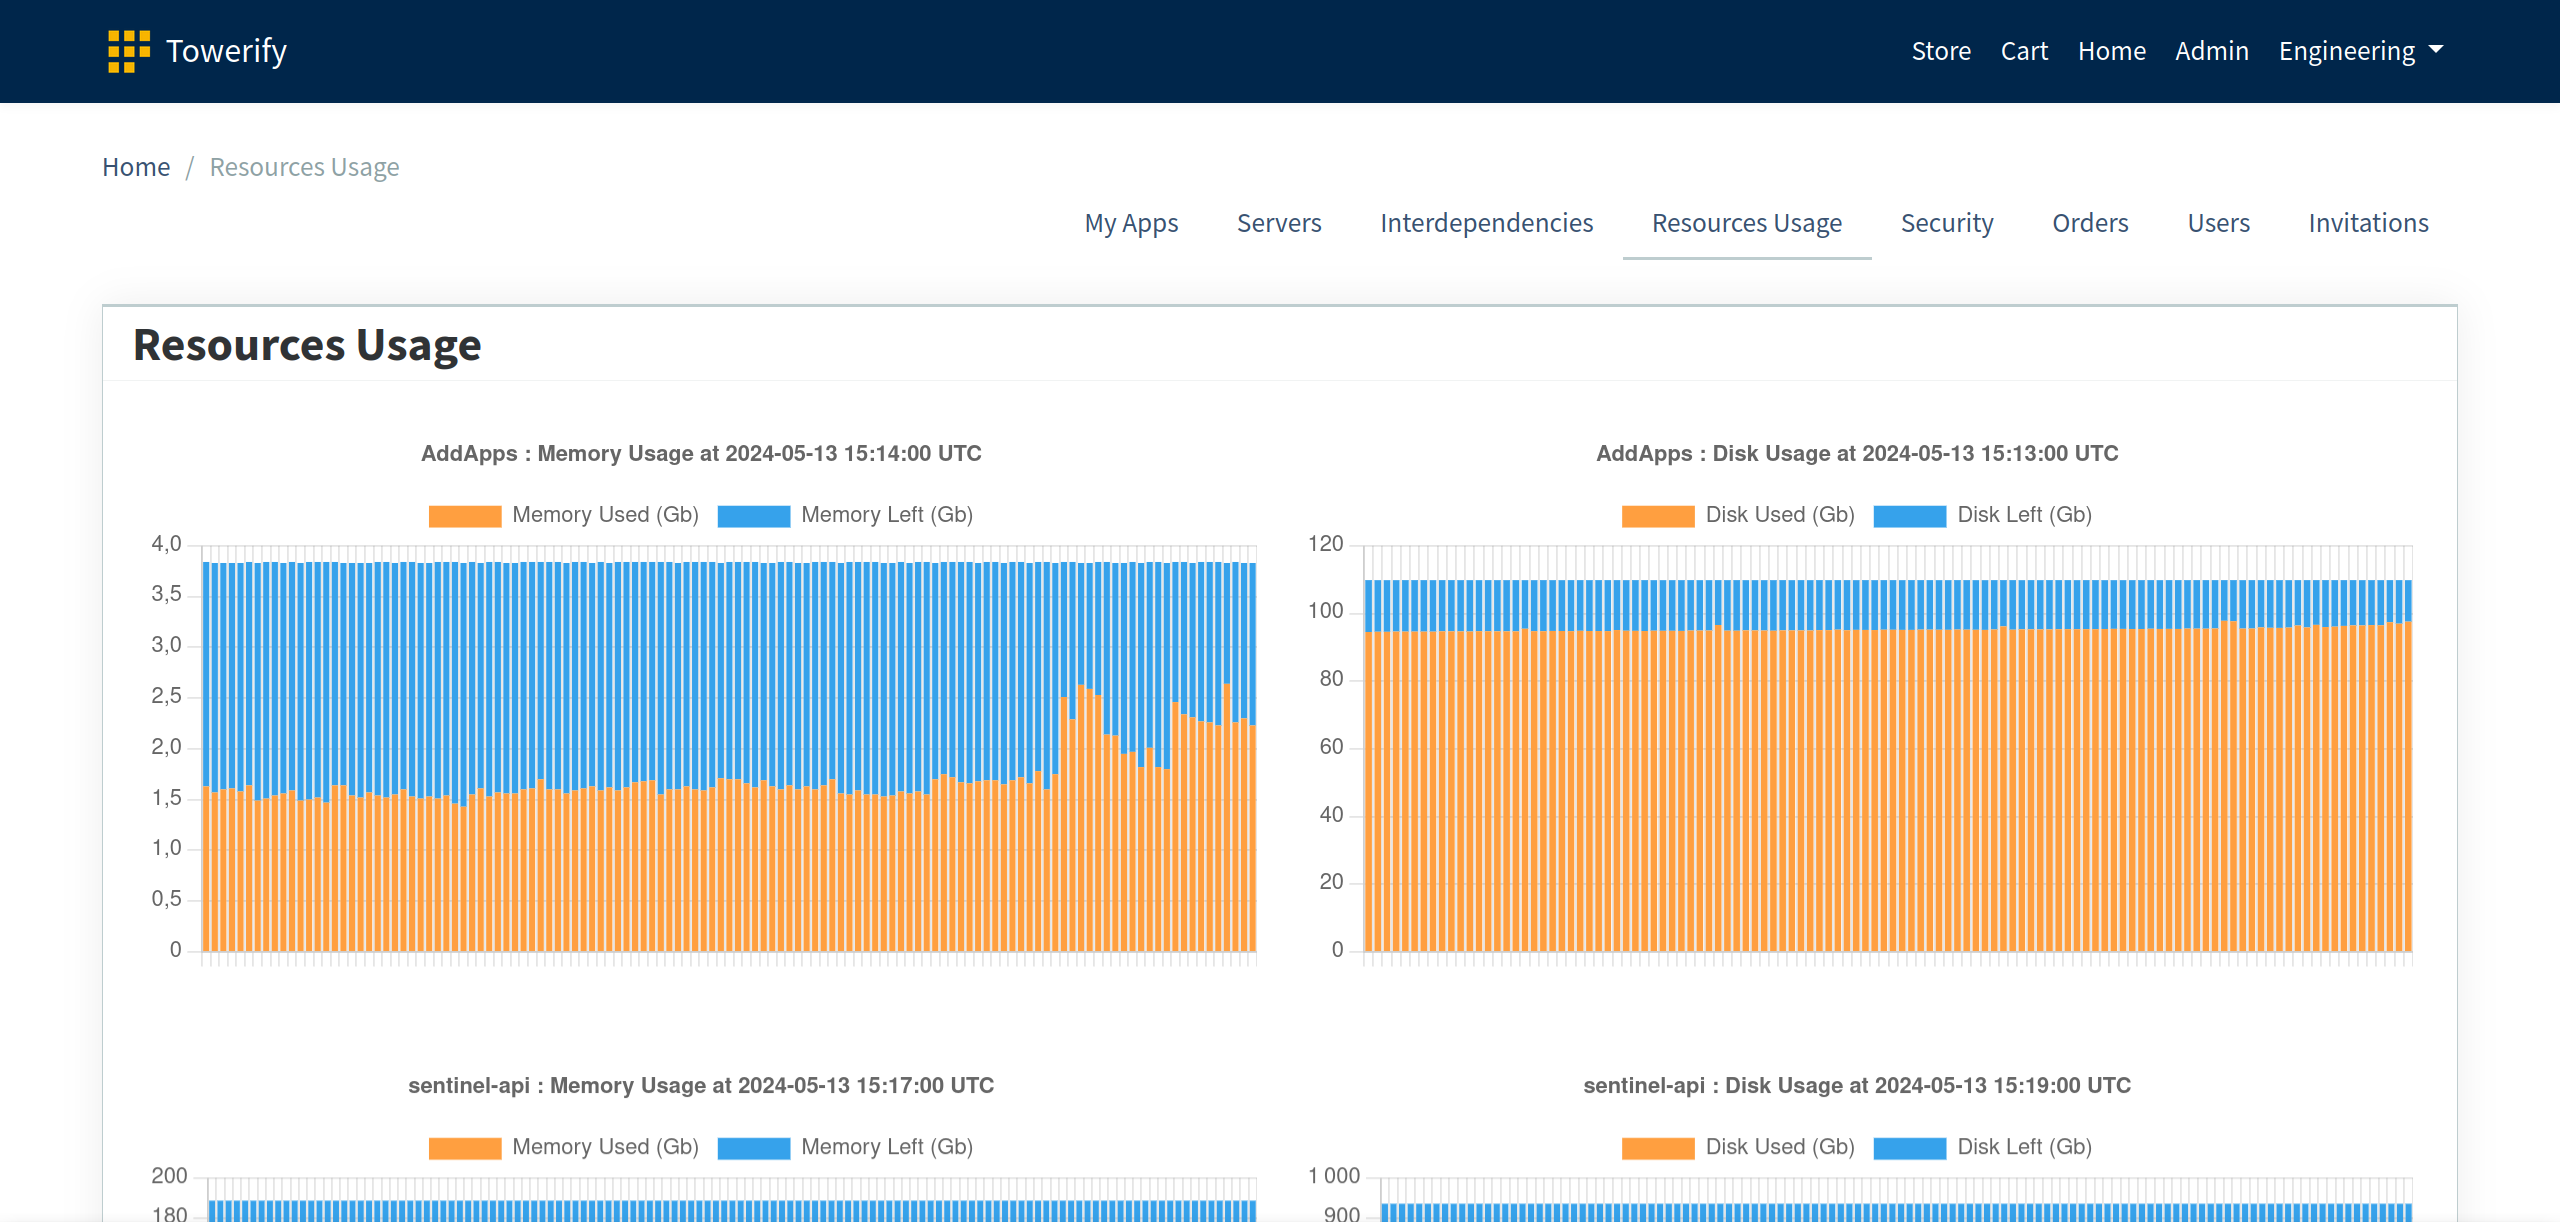
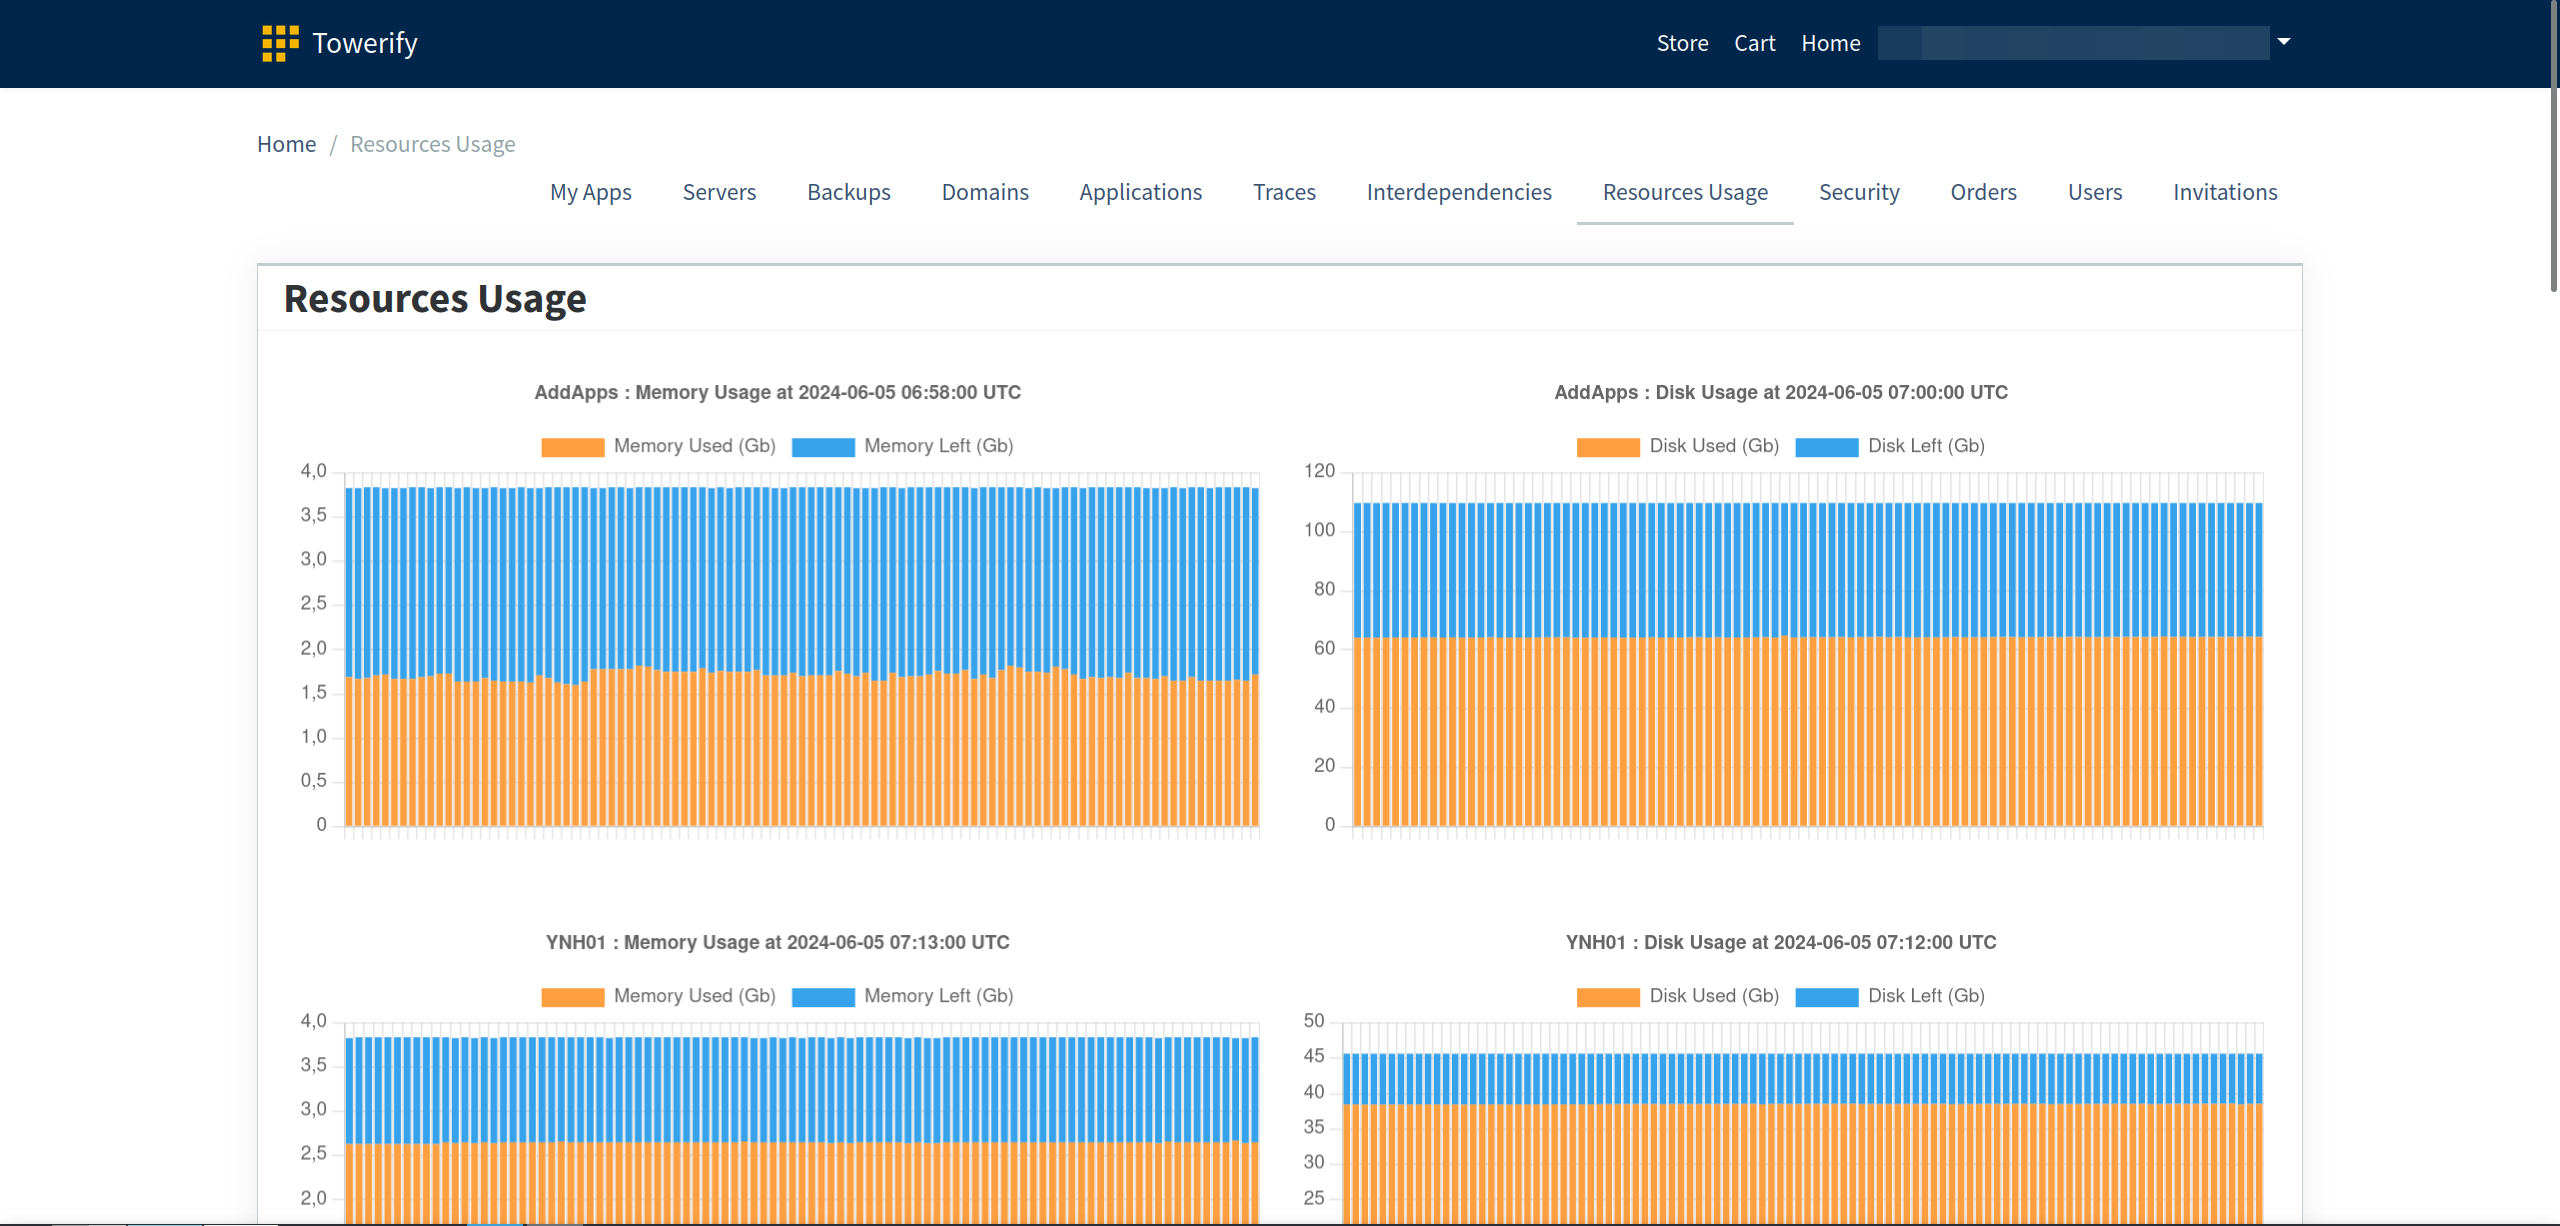
Update README

diff --git a/README.md b/README.md
@@ -88,6 +88,11 @@ file. Adjust these values to your desired credentials.
 
 * __My Apps.__ The applications relevant to your work, making your dashboard cleaner and more efficient.
 * __Servers.__ Displays the list of hardware resources to which you have permissions to deploy applications.
+* __Backups.__ Enables you to download backups for recovery or archival purposes as required.
+* __Domains.__ Displays the list of domains managed across all servers.
+* __Applications.__ Display the list of applications installed across all servers.
+* __Traces.__ Provides you with the ability to audit the latest actions performed across all servers, including commands
+  that have been executed, those currently running, and upcoming commands.
 * __Interdependencies.__ Presents a visual graph that illustrates the relationships and connections between various
   pieces of hardware and web services. Constructed by analyzing nginx logs.
 * __Resources Usage.__ Provides a detailed breakdown of how much memory and storage is being utilized by each server.
